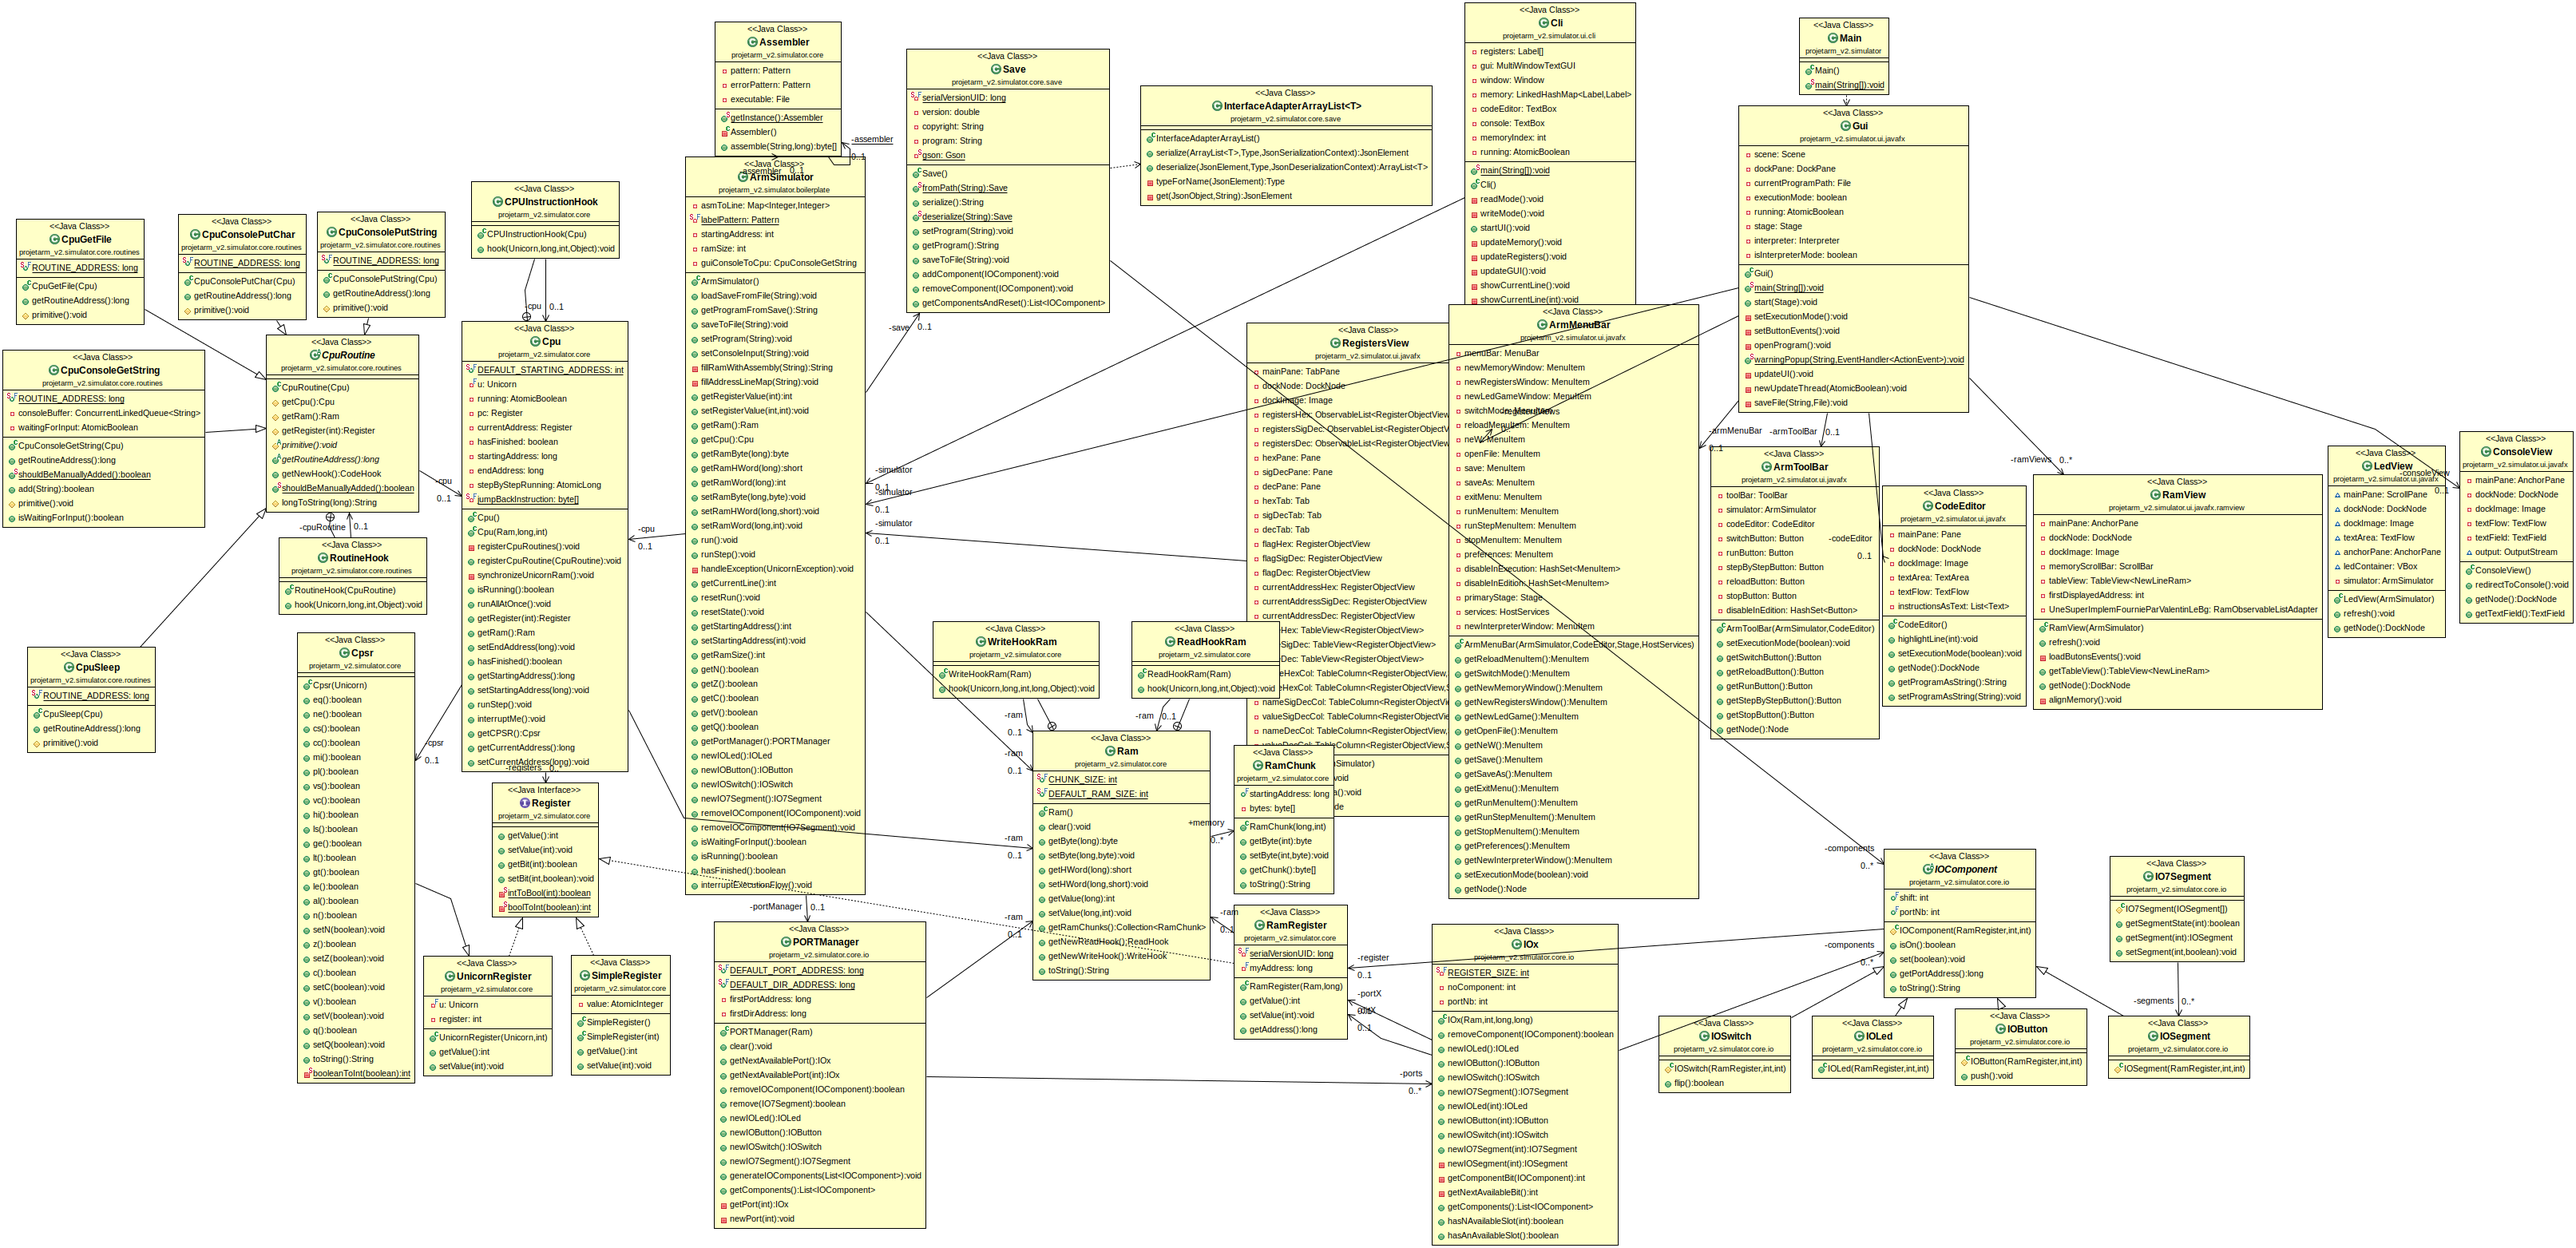
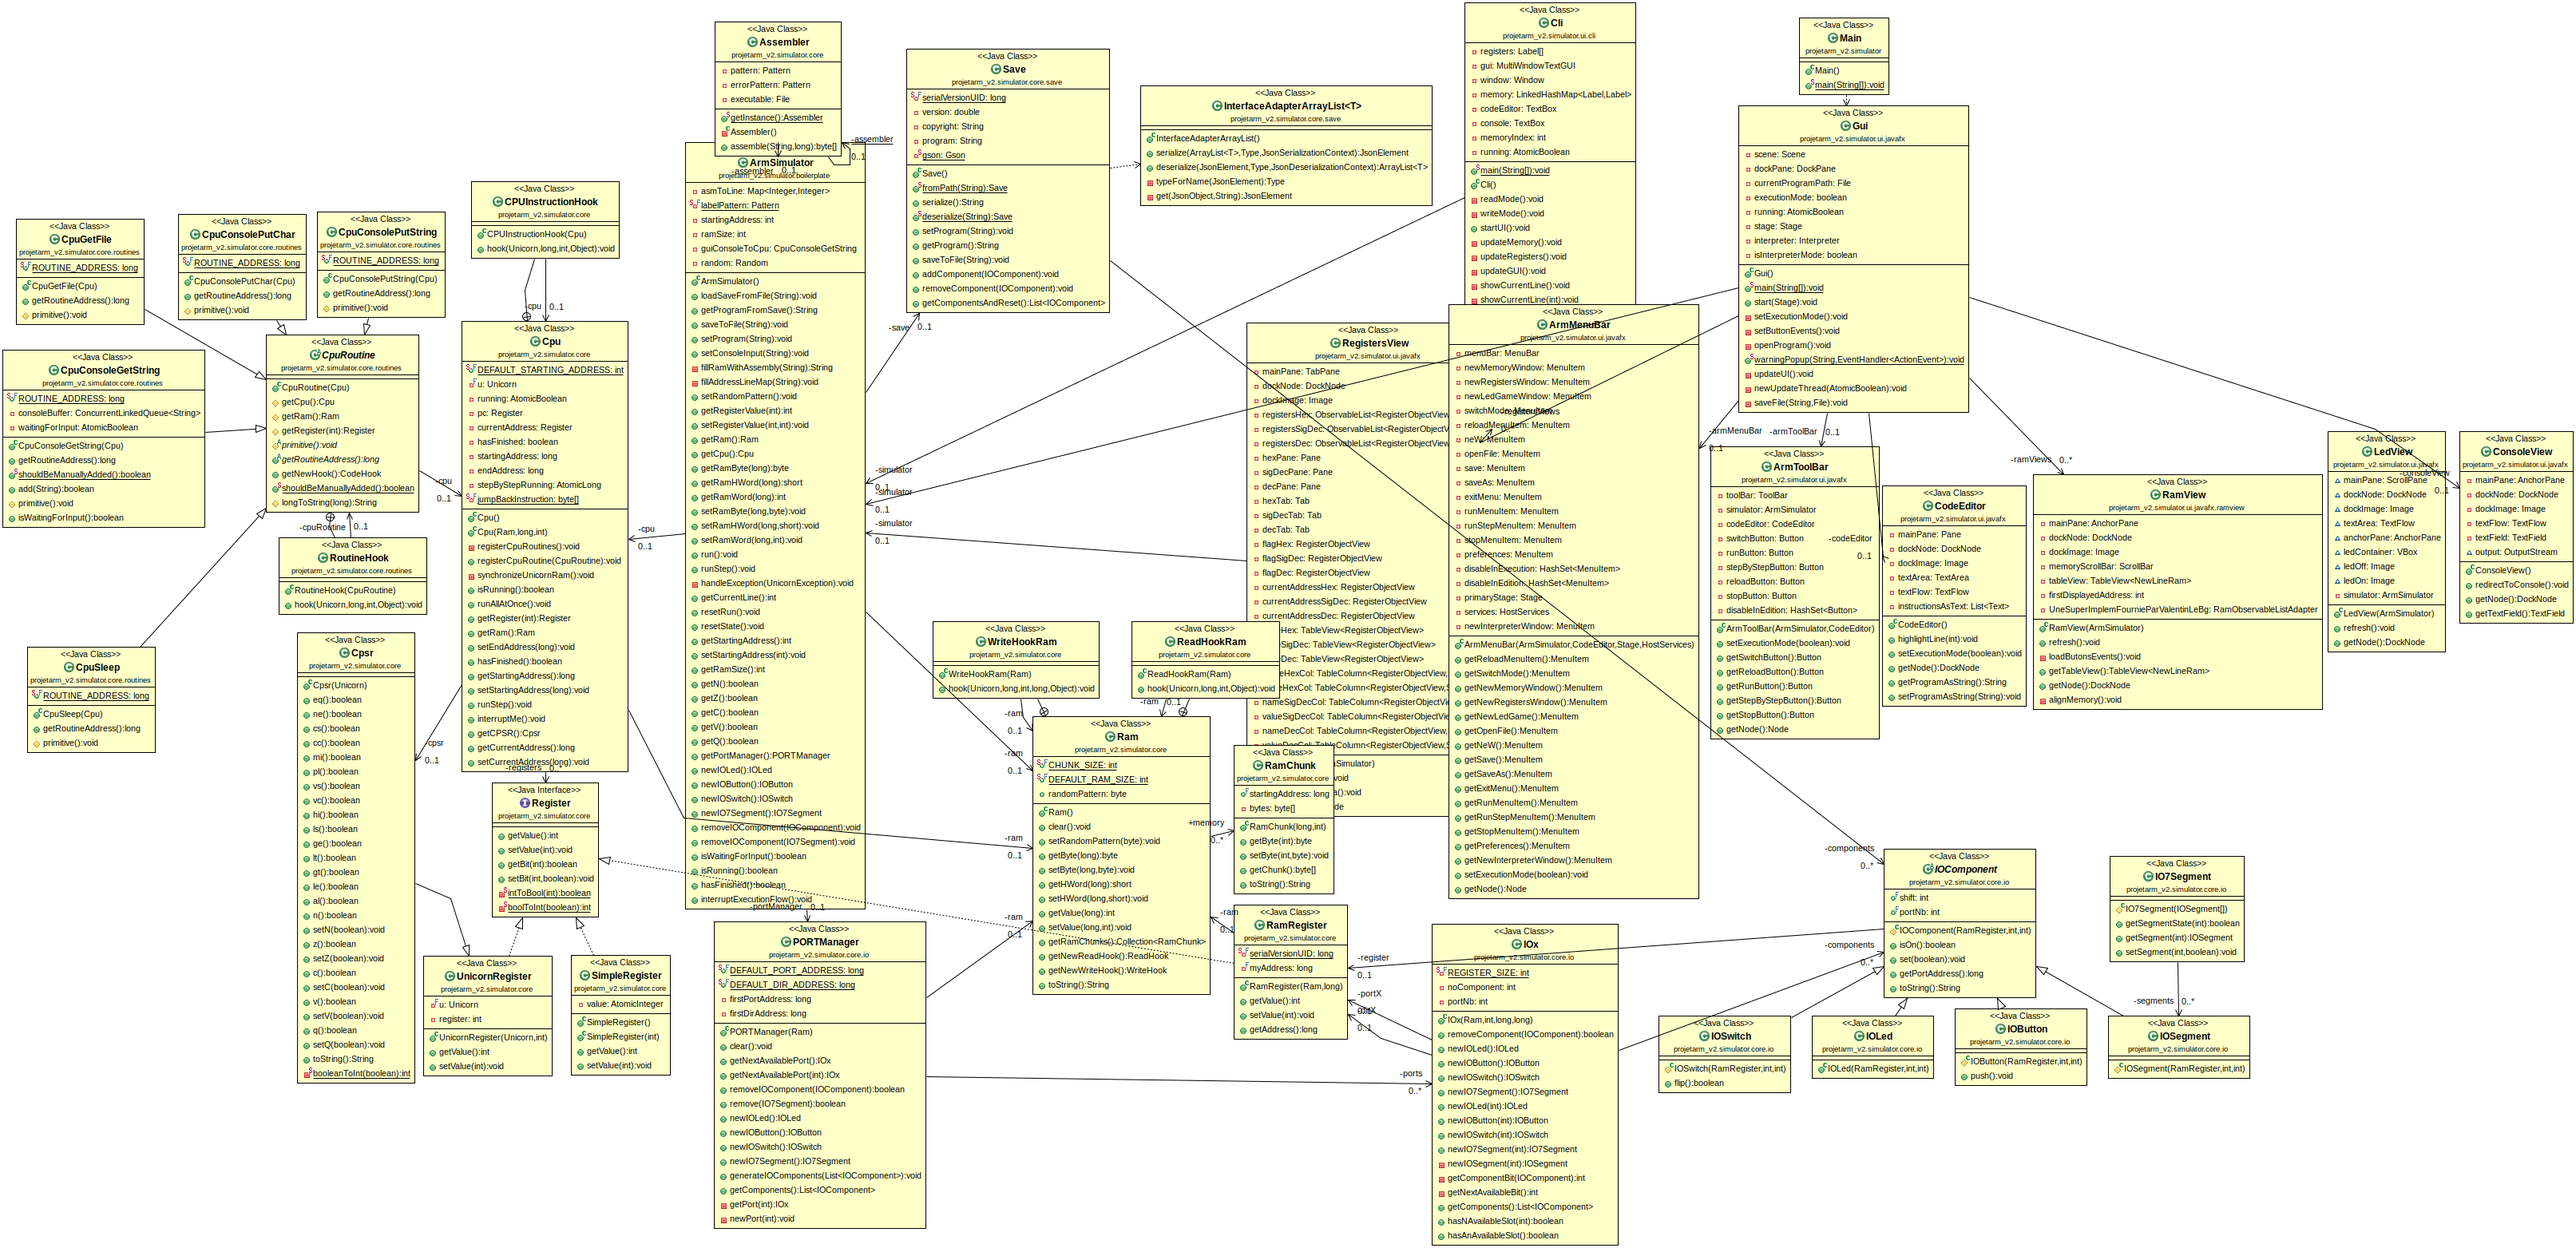
We can now randomize the RAM content

diff --git a/src/projetarm_v2/simulator/ui/javafx/LedView.java b/src/projetarm_v2/simulator/ui/javafx/LedView.java
@@ -3,6 +3,7 @@ package projetarm_v2.simulator.ui.javafx;
 import org.dockfx.DockNode;
 import javafx.event.ActionEvent;
 import javafx.event.EventHandler;
+import javafx.scene.Node;
 import javafx.scene.control.Button;
 import javafx.scene.control.ScrollPane;
 import javafx.scene.image.Image;
@@ -23,6 +24,9 @@ public class LedView {
     AnchorPane anchorPane;
     VBox ledContainer;
     
+    Image ledOff;
+    Image ledOn;
+    
     private ArmSimulator simulator;
     
     public LedView(ArmSimulator simulator){
@@ -31,8 +35,8 @@ public class LedView {
         
         this.mainPane = new ScrollPane();
         
-        Image ledOff = new Image(getClass().getResource("/resources/ledOff.png").toExternalForm());
-        Image ledOn = new Image(getClass().getResource("/resources/ledOn.png").toExternalForm());
+        ledOff = new Image(getClass().getResource("/resources/ledOff.png").toExternalForm());
+        ledOn = new Image(getClass().getResource("/resources/ledOn.png").toExternalForm());
         
         
         
@@ -46,7 +50,7 @@ public class LedView {
             	
                 AnchorPane newLedAddress = new AnchorPane();
                 ImageView newLedImage = new ImageView();
-                if(led.isOn() == true) {
+                if(led.isOn()) {
                 	newLedImage.setImage(ledOn);
                 }else {
                 	newLedImage.setImage(ledOff);
@@ -55,7 +59,7 @@ public class LedView {
                 newLedImage.setLayoutX(0);
                 newLedImage.setLayoutY(0);
                 Text newAddress = new Text();
-                newAddress.setText("Address : 0x" + led.getPortAddress() + " Bit N°" + led.shift);
+                newAddress.setText("Address : 0x" + Long.toHexString(led.getPortAddress()) + " Bit N°" + led.shift);
                 newAddress.setLayoutX(150);
                 newAddress.setLayoutY(55);
                 
@@ -99,7 +103,17 @@ public class LedView {
     }
     
     public void refresh() {
-    	return;
+    	for (Node _pane : ledContainer.getChildren()) {
+    		AnchorPane pane = (AnchorPane)_pane;
+    		
+    		ImageView ledImage = (ImageView)pane.getChildren().get(0);
+    		
+           /* if (led.isOn()) {
+            	ledImage.setImage(ledOn);
+            }else {
+            	ledImage.setImage(ledOff);
+            } Comment on fait pour mettre à jour Hugo si tu gardes pas l'objet de la led quelque part pour connaître son état ? */
+    	}
     }
     
     public DockNode getNode(){

diff --git a/src/projetarm_v2/simulator/ui/javafx/ramview/RamView.java b/src/projetarm_v2/simulator/ui/javafx/ramview/RamView.java
@@ -1,5 +1,6 @@
 package projetarm_v2.simulator.ui.javafx.ramview;
 
+import javafx.beans.value.ChangeListener;
 import javafx.beans.value.ObservableValue;
 import javafx.fxml.FXMLLoader;
 import javafx.scene.control.*;
@@ -11,6 +12,8 @@ import javafx.scene.input.KeyCode;
 import javafx.scene.input.KeyEvent;
 import javafx.scene.input.ScrollEvent;
 import javafx.scene.layout.AnchorPane;
+import javafx.scene.layout.Pane;
+
 import org.dockfx.DockNode;
 import projetarm_v2.simulator.boilerplate.ArmSimulator;
 import projetarm_v2.simulator.core.Ram;
@@ -81,7 +84,25 @@ public class RamView {
 	        this.tableView.getColumns().add(a);
         }
 
-                
+        tableView.widthProperty().addListener(new ChangeListener<Number>() {
+            @Override
+            public void changed(ObservableValue<? extends Number> ov, Number t, Number t1) {
+                // Get the table header
+                Pane header = (Pane)tableView.lookup("TableHeaderRow");
+                if(header!=null && header.isVisible()) {
+                  header.setMaxHeight(0);
+                  header.setMinHeight(0);
+                  header.setPrefHeight(0);
+                  header.setVisible(false);
+                  header.setManaged(false);
+                }
+            }
+        });
+    	Button buttonRdm = (Button) mainPane.lookup("#buttonRdm");
+    	buttonRdm.setOnAction(ActionEvent -> {
+            simulator.setRandomPattern();
+            this.refresh();
+    	});
         
         loadButonsEvents();
         
@@ -152,6 +173,7 @@ public class RamView {
             this.refresh();
     	});
 
+    	
         Button buttonHex = (Button) mainPane.lookup("#buttonHex");
         Button buttonDec = (Button) mainPane.lookup("#buttonDec");
 

diff --git a/src/projetarm_v2/simulator/boilerplate/ArmSimulator.java b/src/projetarm_v2/simulator/boilerplate/ArmSimulator.java
@@ -3,6 +3,7 @@ package projetarm_v2.simulator.boilerplate;
 import java.io.IOException;
 import java.util.HashMap;
 import java.util.Map;
+import java.util.Random;
 import java.util.regex.Matcher;
 import java.util.regex.Pattern;
 
@@ -59,6 +60,8 @@ public class ArmSimulator {
 
 	private Save save;
 	
+	private Random random;
+	
 	/**
 	 * Creates a arm simulator ready to use, with all the needed components (cpu,
 	 * program, asmToLine, assembler)
@@ -70,6 +73,8 @@ public class ArmSimulator {
 		
 		this.assembler = Assembler.getInstance();
 		this.asmToLine = new HashMap<>();
+		
+		this.random = new Random();
 		
 		this.resetState();
 	}
@@ -151,6 +156,10 @@ public class ArmSimulator {
 		}
 	}
 
+	public void setRandomPattern() {
+		this.ram.setRandomPattern((byte)random.nextInt());
+	}
+	
 	/**
 	 * Returns the register value corresponding to the given number
 	 */

diff --git a/src/projetarm_v2/simulator/core/Ram.java b/src/projetarm_v2/simulator/core/Ram.java
@@ -14,6 +14,8 @@ public class Ram {
 	public static final int DEFAULT_RAM_SIZE = 2 * 1024 * 1024; // 2 MB
 	public final Map<Long, RamChunk> memory;
 
+	public byte randomPattern = 0;
+	
 	public Ram() {
 		this.memory = new HashMap<>();
 	}
@@ -22,12 +24,16 @@ public class Ram {
 		this.memory.clear();
 	}
 	
+	public void setRandomPattern(byte pattern) {
+		this.randomPattern = pattern;
+	}
+	
 	public byte getByte(long myAddress) {
 		long block = myAddress / CHUNK_SIZE;
 		RamChunk chunk = this.memory.get(block);
 
 		if (chunk == null) {
-			return 0;
+			return randomPattern;
 		}
 
 		return chunk.getByte((int) (myAddress % CHUNK_SIZE));
